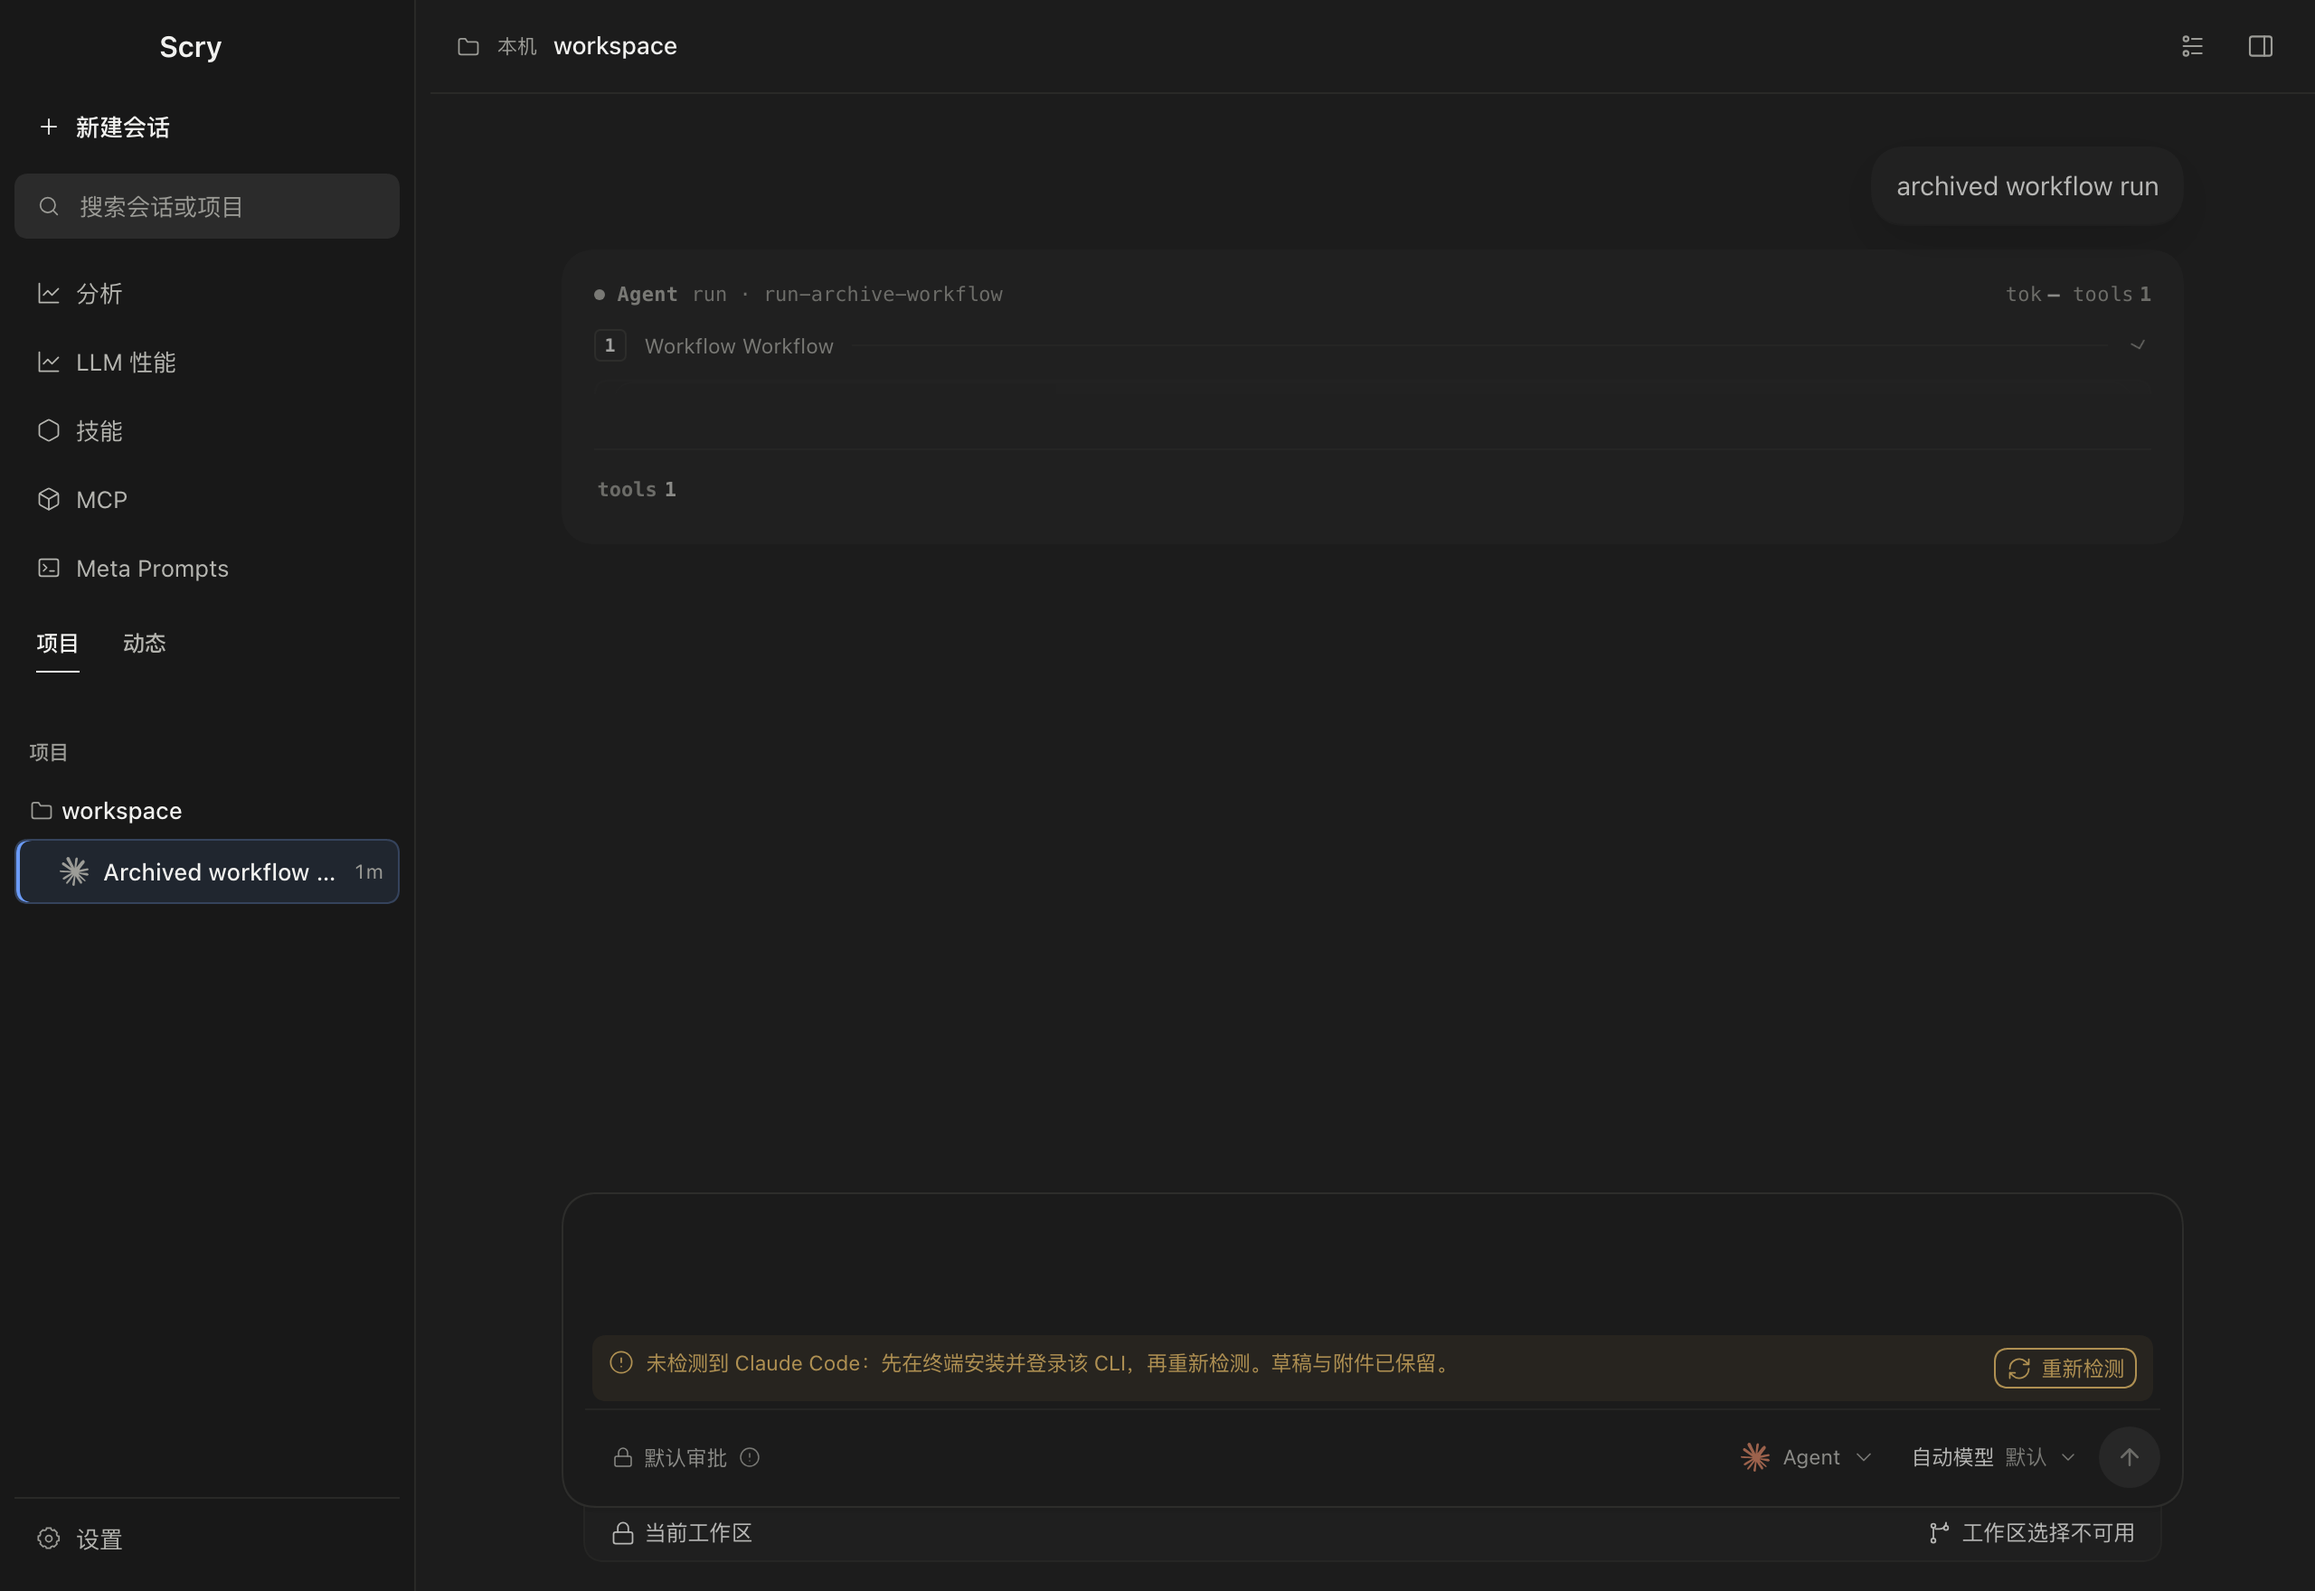
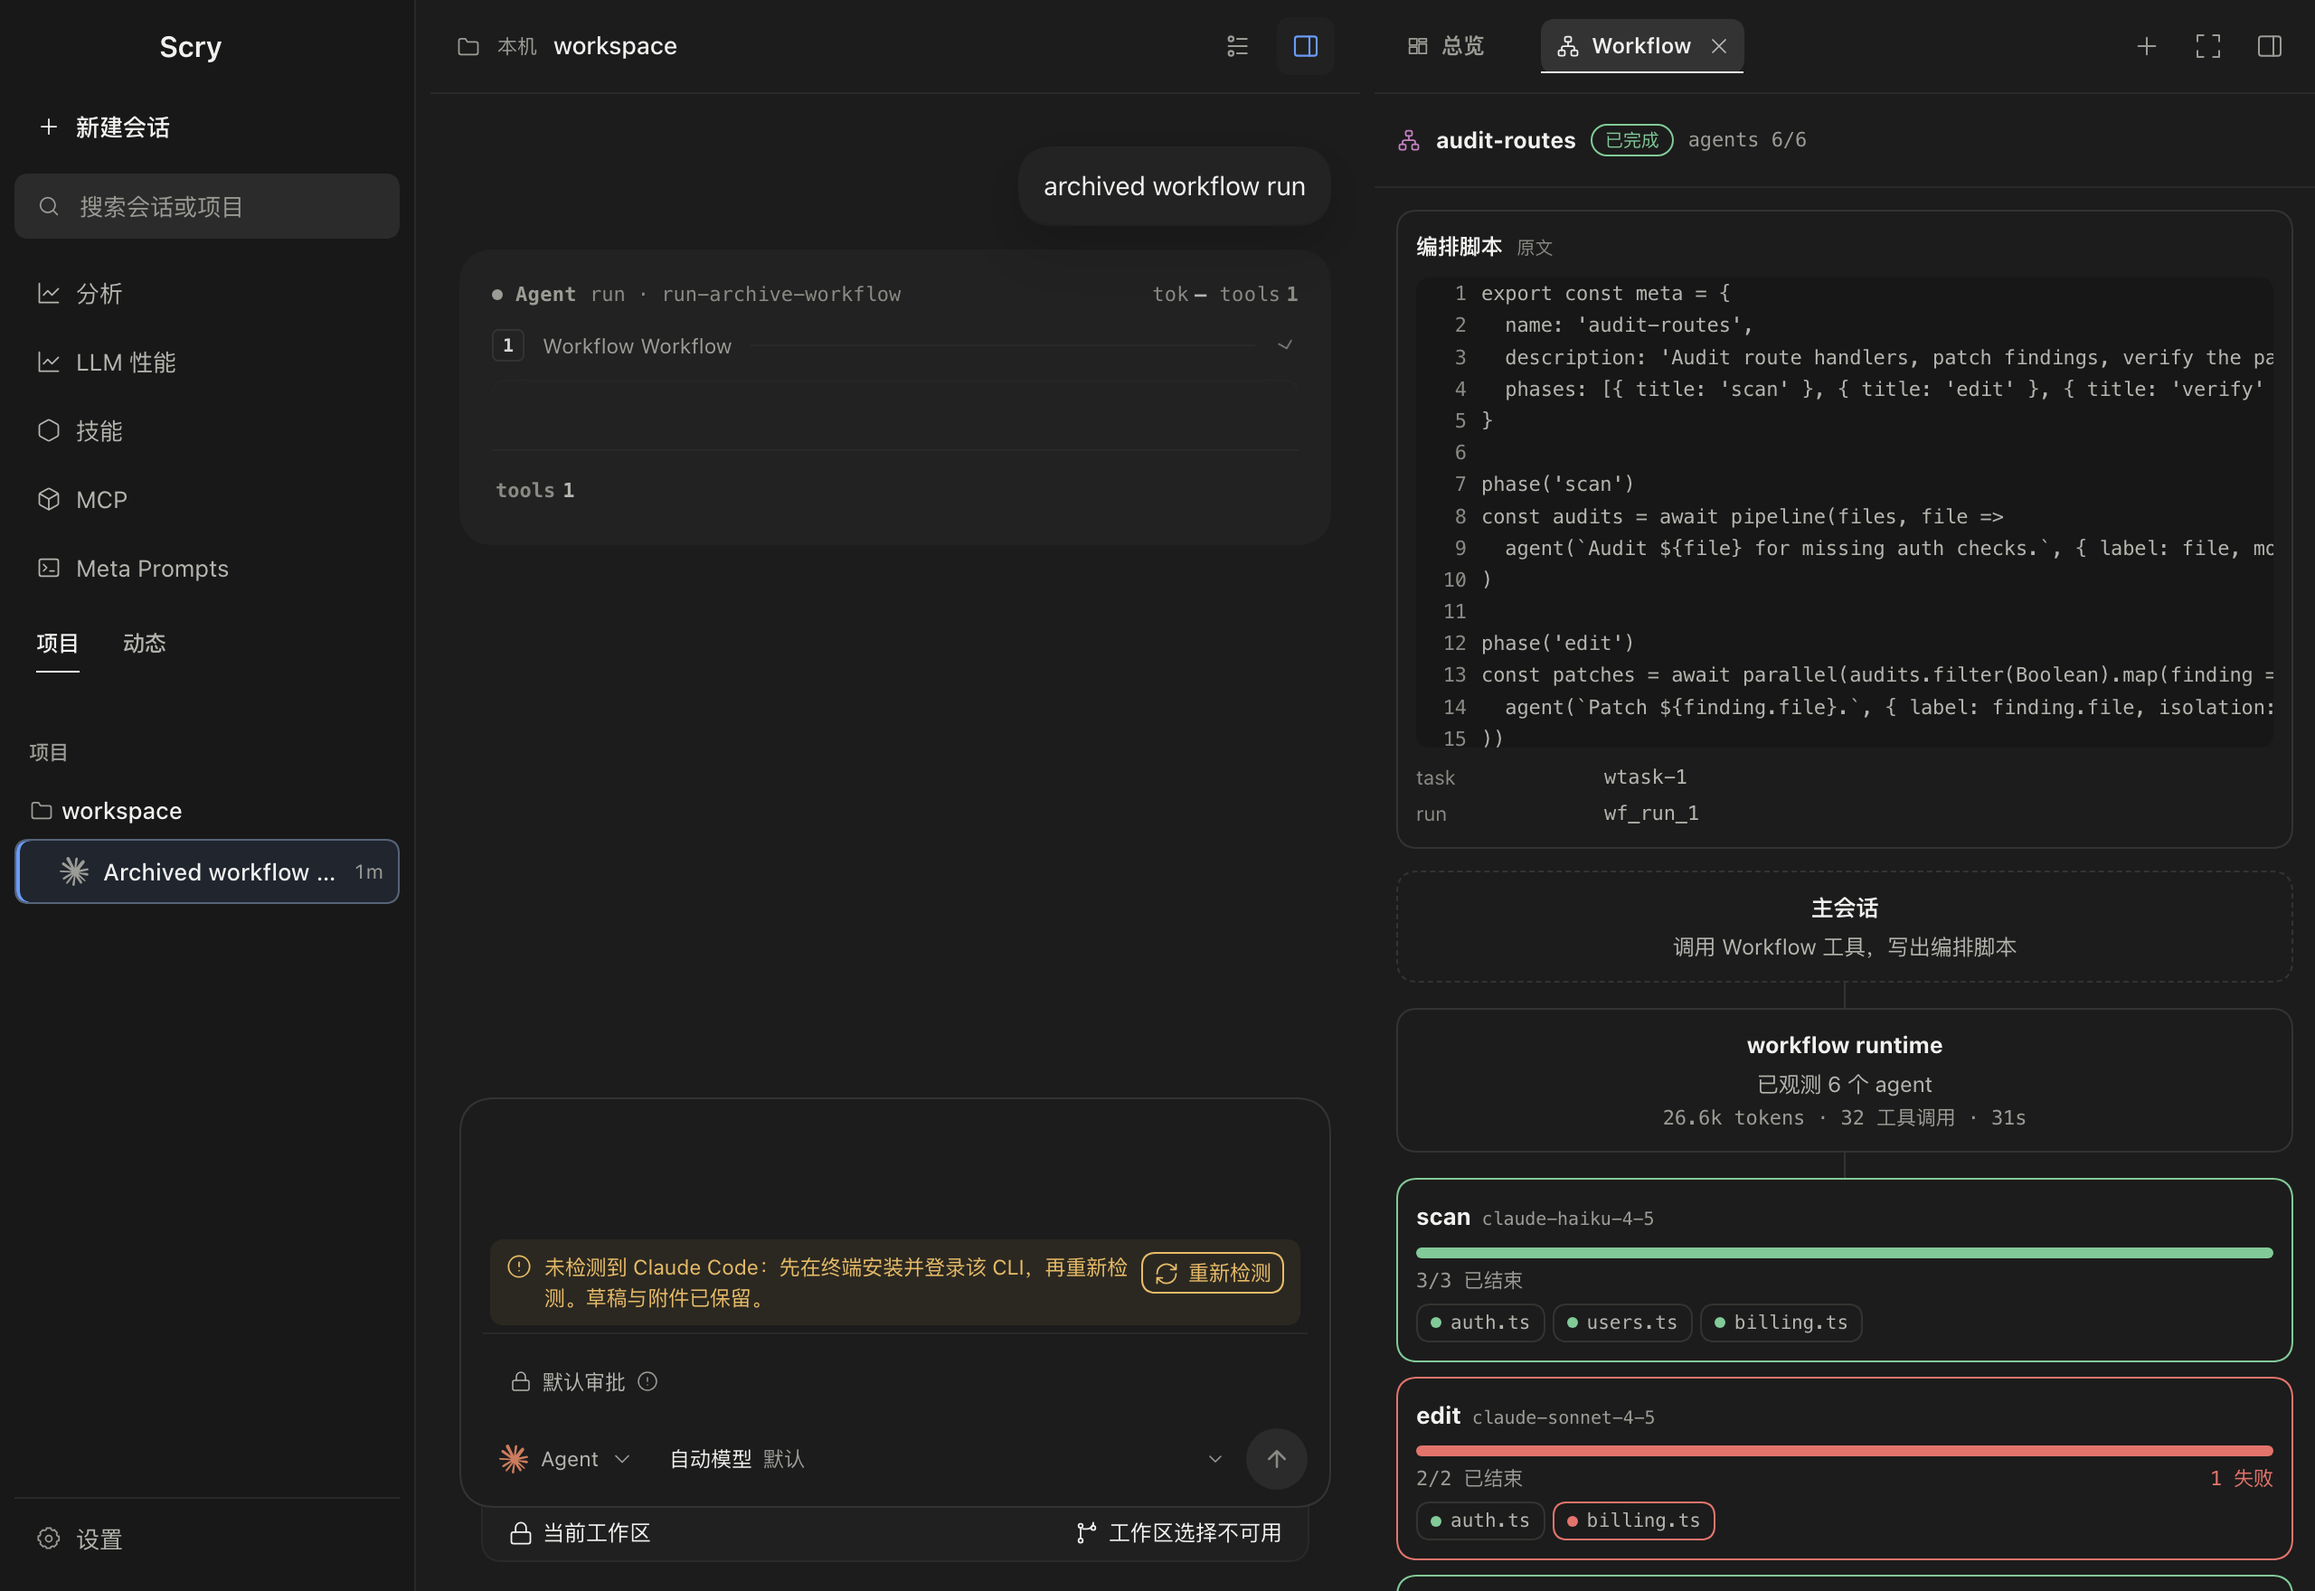
fix(workflow): say the tool call was seen once its rows adopted it
After the projection adopted a run that task rows created, the run id stayed
task-based, so the surface still claimed "no matching Workflow tool call" while
the chat showed that very call. Record the observation on the run instead of
inferring it from the id, and assert it in the archive replay and in a render
test that fails without the field.

Also make the archive replay relaunch the App once more against the same
temporary data without rewriting anything, so "the session came back" proves
the archive and transcript were read from disk, not seeded again. Its seeding
moved into the workflow smoke module to keep the shared smoke under budget.

Adds the event-log comparison script used to check native events against the
canonical ones and the projection; it needs a real run to be meaningful, so it
is exercised here only against the synthetic fixture.

diff --git a/src/renderer/workflow-runs.ts b/src/renderer/workflow-runs.ts
@@ -78,6 +78,8 @@ export interface WorkflowRun {
   error?: string
   /** `observed`: rows arrived. `unavailable`: task events arrived without rows. */
   progress: 'observed' | 'unavailable' | 'pending'
+  /** True once the `Workflow` tool call itself was seen, even if its rows arrived first. */
+  toolCallObserved: boolean
   /** Earlier events of this task are not in the loaded history; counts below are a lower bound. */
   partial: boolean
   rowsOmitted: number
@@ -189,6 +191,7 @@ function createRun(turn: Turn, id: string, event: TraceEvent): Accumulator {
     taskEvents: 0,
     run: {
       id, turnRunId: turn.runId, status: 'launching', statusSource: 'tool_use', progress: 'pending', partial: false,
+      toolCallObserved: false,
       rowsOmitted: 0, rowsUnrecognized: 0, phases: [], agentCount: 0, log: [], logDropped: 0,
       ...(event.ts ? { startedAt: event.ts, updatedAt: event.ts } : {})
     }
@@ -199,6 +202,7 @@ function applyToolUse(acc: Accumulator, event: TraceEvent): void {
   const input = record(event.input)
   const { run } = acc
   run.toolUseId = event.toolUseId
+  run.toolCallObserved = true
   if (typeof input.script === 'string' && input.script.trim()) run.script = scriptOf(input.script, 'tool_input', false)
   const ref = typeof input.name === 'string' && input.name ? input.name
     : typeof input.scriptPath === 'string' && input.scriptPath ? input.scriptPath : undefined

diff --git a/src/renderer/workflow-runs.test.ts b/src/renderer/workflow-runs.test.ts
@@ -90,6 +90,8 @@ describe('deriveWorkflowRuns', () => {
     expect(run.script?.source).toBe('task_started')
     // The id comes from the task event itself, not from an observed tool call.
     expect(run.toolUseId).toBe('toolu_workflow_1')
+    // The tool_use event itself is missing here; the panel must say so.
+    expect(run.toolCallObserved).toBe(false)
     expect(run.log[0].message).not.toContain('调用 Workflow 工具')
   })
 
@@ -99,7 +101,7 @@ describe('deriveWorkflowRuns', () => {
     const reordered = [...all.filter((event) => event.kind !== 'tool'), ...all.filter((event) => event.kind === 'tool')]
     const runs = deriveWorkflowRuns([turn(reordered)], { busy: false })
     expect(runs).toHaveLength(1)
-    expect(runs[0]).toMatchObject({ status: 'completed', statusSource: 'task_notification', agentCount: 6 })
+    expect(runs[0]).toMatchObject({ status: 'completed', statusSource: 'task_notification', agentCount: 6, toolCallObserved: true })
     expect(workflowRunForToolUse(runs, 'toolu_workflow_1')).toBe(runs[0])
   })
 

diff --git a/src/renderer/components/WorkflowSurface.test.tsx b/src/renderer/components/WorkflowSurface.test.tsx
@@ -72,6 +72,14 @@ describe('WorkflowSurface', () => {
     expect(html).not.toContain('workflow-phase')
   })
 
+  it('活动行先于 tool_use 到达时仍显示“调用了 Workflow 工具”，不是“没有对应的调用”', () => {
+    const all = events(workflowFixtureMessages())
+    const reordered = [...all.filter((event) => event.kind !== 'tool'), ...all.filter((event) => event.kind === 'tool')]
+    const html = render(reordered)
+    expect(html).toContain(WORKFLOW_COPY.mainSessionAction)
+    expect(html).not.toContain(WORKFLOW_COPY.mainSessionUnobserved)
+  })
+
   it('历史不完整时给出 partial 提示', () => {
     const all = events(workflowFixtureMessages())
     const firstRows = all.findIndex((event) => event.stage === 'workflow_activity' && (event.input as { rows?: unknown[] }).rows)

diff --git a/src/renderer/components/WorkflowFlow.tsx b/src/renderer/components/WorkflowFlow.tsx
@@ -138,7 +138,9 @@ export function WorkflowFlow({ run }: { run: WorkflowRun }) {
     return undefined
   }, [run.phases, selected])
   const ended = run.status === 'completed' || run.status === 'failed' || run.status === 'stopped'
-  const callObserved = run.id !== `task:${run.taskId}`
+  // The call can arrive after its rows; the run id stays task-based in that case, so the run
+  // itself records whether the call was seen instead of inferring it from the id.
+  const callObserved = run.toolCallObserved
   const usage = [
     run.usage?.totalTokens !== undefined ? `${fmtTok(run.usage.totalTokens)} ${WORKFLOW_COPY.usageTokens}` : undefined,
     run.usage?.toolUses !== undefined ? `${run.usage.toolUses} ${WORKFLOW_COPY.usageTools}` : undefined,

diff --git a/docs/handoff/workflow-surface-2026-11-10/reports/D.md b/docs/handoff/workflow-surface-2026-11-10/reports/D.md
@@ -12,6 +12,7 @@ SCRY_WORKFLOW_ARCHIVE_SCREENSHOT=evidence/screens node scripts/workflow-archive-
 
 - 包装脚本 `scripts/workflow-archive-smoke.mjs`：把夹具消息交给生产 `normalizeSdkMessage` 得到事件，写一份真实布局的归档轮次（`trace-archive-turns-v1/...`）、一份 Provider 原生 transcript（`$HOME/.claude/projects/<encoded cwd>/<session>.jsonl`）和会话行，然后调用 `electron-security-smoke.mjs --dev-workflow-only`。
 - 冒烟模块 `scripts/electron-security-workflow.mjs`：真实指针点击打开会话 → 展开工具组 → 点“在 Workflow 面板查看” → 用生产 `deriveWorkflowRuns` 算出期望值，逐阶段、逐 agent、终态、脚本行、横向溢出对照 DOM；随后 `Page.reload`（渲染进程重启）重开同一会话再对照一次。
+- 包装脚本会启动**两次**真实 App 进程，共用同一个临时 userData/HOME：第二次什么也不写（不重写归档、不重写 transcript，只重写会话目录行），因此“还能打开并显示同样结果”证明数据是从磁盘读回来的。第二次的输出带 `"relaunch": true`。
 - `scripts/electron-security-smoke.mjs` 只增加 `--dev-workflow-only` 分支与种子调用，新逻辑都在独立模块里；文件 19.6 KB，仍低于 20,000 字节。
 
 ## 正对照
@@ -26,6 +27,13 @@ SCRY_WORKFLOW_ARCHIVE_SCREENSHOT=evidence/screens node scripts/workflow-archive-
 "reloaded":{"status":"已完成","phases":3,"logEntries":24},"noProviderRuns":true,"isolatedUserData":true}}
 ```
 
+两次运行（首次 + 完全重启）输出一致，第二次带 `"relaunch": true`：
+
+```
+fresh   已完成 ['scan','edit','verify'] 6
+relaunch 已完成 ['scan','edit','verify'] 6
+```
+
 `noProviderRuns: true` 来自 `window.scry.activeRuns()` 为空：回放不启动任何 Provider。断言里还有一条
 “transcript 轮次与归档轮次必须合并成一“条”（`#main-pane .turn` 数量为 1）”，用来证明种子确实走了
 生产的历史合并路径，而不是归档单源捷径。
@@ -37,6 +45,7 @@ SCRY_WORKFLOW_ARCHIVE_SCREENSHOT=evidence/screens node scripts/workflow-archive-
 | `evidence/screens/workflow-archive-chat.png` | 归档轮次在聊天区渲染出 Workflow 工具卡片与“在 Workflow 面板查看”入口 |
 | `evidence/screens/workflow-archive-surface.png` | 点聊天卡片后打开右侧 Workflow，三个阶段、6 个 agent、终态与归档一致 |
 | `evidence/screens/workflow-archive-reloaded.png` | 渲染进程 reload 后重新打开，阶段数/agent 数/终态与 reload 前一致 |
+| `evidence/screens/workflow-archive-relaunch.png` | 完全退出 App、用同一 userData 重新启动、不写任何测试数据，仍打开同一阶段/agent/终态 |
 
 ## 负对照
 

diff --git a/docs/handoff/workflow-surface-2026-11-10/reports/E.md b/docs/handoff/workflow-surface-2026-11-10/reports/E.md
@@ -74,4 +74,5 @@
 | 问题 | 处理 |
 |---|---|
 | 活动行先于 `tool_use` 到达时出现第二个“状态未知”运行 | 已修，见 `reports/D.md`「顺带修掉的缺陷」 |
+| 同一次运行被任务行先建出来时，面板仍写“已加载的历史里没有对应的 Workflow 工具调用”，与聊天卡片矛盾 | 已修：运行自己记录 `toolCallObserved`，由 `applyToolUse` 置真，`WorkflowFlow` 不再用 `id !== task:<id>` 猜。测试 `workflow-runs.test.ts`「活动行先于 tool_use…」与 `WorkflowSurface.test.tsx`「活动行先于 tool_use 到达时仍显示“调用了 Workflow 工具”」；后者在修复前失败 |
 | `ChatView` 未把 `onOpenWorkflow` 透传给对话流 | 已修（E1 负对照） |
